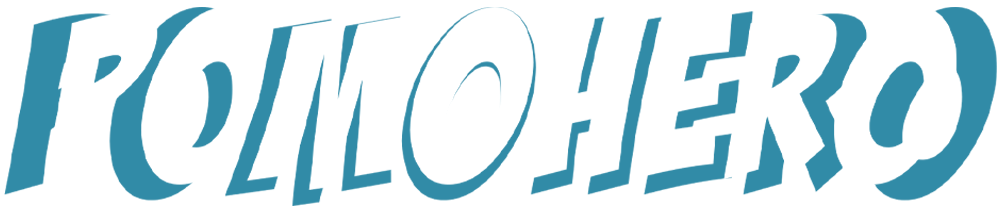
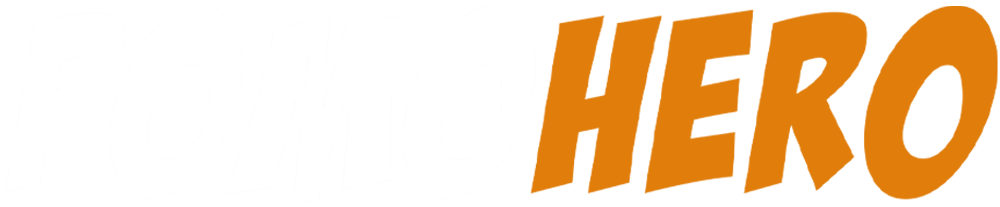
modified color scheme for app

diff --git a/source/v1/css/layout.css b/source/v1/css/layout.css
@@ -57,11 +57,17 @@ body {
  * Styling for information button
  */
 .info-btn {
+  width: 30px;
+  height: 30px;
   position: absolute;
   right: 15px;
   top: 90px;
-  border-radius: 15px;
+  border-radius: 50%;
   opacity: 80%;
+  font-family: 'Calibri', sans-serif;
+  font-weight: bold;
+  font-size: 1.1rem;
+  border: none;
 }
 
 /**
@@ -86,7 +92,7 @@ body {
 .sidenav {
   padding: 0 50px;
   height: 100vh;
-  /* display: none; */
+  display: none;
   width: auto;
   position: absolute;
   z-index: 2;
@@ -182,7 +188,7 @@ input[type=text] {
   border-radius: 3px;
   height: auto;
   width: auto;
-  max-width: 450px;
+  max-width: 380px;
   margin: 45px auto 0 auto;
   padding: 20px 100px 15px 100px;
 }
@@ -220,25 +226,27 @@ input[type=text] {
  * Small tomatos denoting if Pomodoro is completed
  */
 .pomo-count {
-  width: 50px;
+  margin: 5px 5px 20px 5px;
+  width: 25px;
 }
 
 /**
  * Styling Start and End buttons
  */
 .custom-btn {
-  border-radius: 3px;
+  border-radius: 10px;
   height: 40px;
   line-height: 40px;
   width: 150px;
   font-family: 'Alegreya', serif;
   font-size: 20px;
-  font-weight: bold;
+  font-weight: normal;
   text-decoration: none;
   display: inline-block;
   cursor: pointer;
   text-align: center;
   margin: 0 30px 15px 10px;
+  border: 2px solid;
 }
 
 /**
@@ -256,7 +264,7 @@ input[type=text] {
  * Container for displaying current and next task
  */
 .middle-container {
-  padding: 10px;
+  padding: 10px 10px 40px 10px;
   margin: auto;
   height: auto;
   font-family: 'Roboto', sans-serif;
@@ -288,28 +296,6 @@ input[type=text] {
   position: absolute;
 }
 
-/******************
- * Styling Footer *
- ******************/
-
-/**
- * Container for footer at end of page
- */
-.bottom-container {
-  padding: -200px 0 0 0;
-  height: 80px;
-}
-
-/**
- * Styling the copyright in footer
- */
-.copy-right {
-  margin: auto;
-  padding: 80px 20px 20px 20px;
-  font-weight: 900;
-  font-family: 'Roboto', sans-serif;
-}
-
 /************************
  * Styling Instructions *
  ************************/
@@ -318,20 +304,19 @@ input[type=text] {
  * Container for instructions
  */
 .instructions-section {
-  max-width: 1000px;
+  max-height: 100vh;
   margin: auto;
-  padding: 20px 100px 30px 100px;
   font-family: 'Roboto', sans-serif;
-  padding: 10px 0;
 }
 
 /**
  * Styling the header in instructions section
  */
 .instruct-head {
+  margin-top: 0;
+  padding: 15px;
   font-size: 2.5rem;
   font-family: 'Alegreya', serif;
-  margin: 30px 0 30px 0;
 }
 
 /**
@@ -375,9 +360,31 @@ input[type=text] {
 }
 
 /**
+ * Styling the up arrow container
+ */
+.instruct-bottom {
+  padding: 5px;
+}
+
+/**
  * Styling up arrow button after instructions
  */
 .arrow-up-icon {
   margin: auto;
   width: 50px;
+}
+
+/******************
+ * Styling Footer *
+ ******************/
+
+/**
+ * Styling the copyright in footer
+ */
+.copy-right {
+  position: relative;
+  padding: 30px;
+  margin: auto;
+  font-weight: 900;
+  font-family: 'Roboto', sans-serif;
 }

diff --git a/source/v1/css/colors.css b/source/v1/css/colors.css
@@ -5,24 +5,29 @@ hr {
   color: #79a3b1;
 }
 
+.header-container {
+  background-color: #1f288f;
+}
+
 /************************
  * Color for Navigation *
  ************************/
 
 .info-btn {
-  color: #405f69;
+  color: #fff;
+  background-color: #1f288f;
 }
 
 .info-btn:hover {
-  color: #213336;
+  background-color: rgb(240, 197, 104);
 }
 
 .task-btn {
-  color: #405f69;
+  color: #1f288f;
 }
 
 .task-btn:hover {
-  color: #213336;
+  color: rgb(240, 197, 104);
 }
 
 /*****************************
@@ -34,42 +39,49 @@ hr {
 }
 
 .btn {
-  color: #7e8080;
+  color: #1f288f;
 }
 
 .btn:hover {
-  color: #000;
+  color: rgb(240, 197, 104);
 }
 
 /****************************
  * Color for Pomodoro Timer *
  ****************************/
 .timer-section {
-  background-color: #d0e8f2;
+  background-color: #fff;
 }
 
 .timer-box {
-  background-color: #79a3b1;
+  background-color: #1f288f;
 }
 
 .timer {
-  background-color: #79a3b1;
+  background-color: #1f288f;
 }
 
 #time-display {
-  color: #165d81;
+  color: #fff;
 }
 
 #work-message {
-  color: #000;
+  color: #fff;
+}
+
+#pomos-completed {
+  color: #fff;
 }
 
 .custom-btn {
-  background: #d0e8f2;
+  border-color: #fff;
+  color: #fff;
+  background: #1f288f;
 }
 
 .custom-btn:hover {
-  background-color: #2f70a8;
+  background-color: #fff;
+  color: #1f288f;
 }
 
 /****************************
@@ -77,19 +89,19 @@ hr {
  ****************************/
 
 .middle-container {
-  background-color: #d0e8f2;
+  background-color: #fff;
 }
 
 #current {
   background-color: #fff;
-  color: black;
-  border-color: green;
+  color: #000;
+  border-color: #1f288f;
 }
 
 #next {
-  background-color: #e7e2e2;
+  background-color: rgb(234, 234, 245);
   color: rgb(48, 46, 46);
-  border-color: #615e5e;
+  border-color: #1f288f;
 }
 
 /**************************
@@ -97,30 +109,31 @@ hr {
  **************************/
 
 .instruct-head {
-  color: #5b5b5b;
+  color: #fff;
+  background-color: #e07d0b;
 }
 
-.instructions-section {
-  background-color: #f4f9f9;
+#instructions-para {
+  background-color: #fff;
 }
 
-#instructions-para,
 .arrow-up-icon {
-  color: #5b5b5b;
+  color: #fff;
+}
+
+.instruct-bottom {
+  background-color: rgb(224, 125, 11);
 }
 
 .arrow-up-icon:hover {
-  color: #184d47;
+  color: #000;
 }
 
 /********************
  * Color for Footer *
  ********************/
 
-.bottom-container {
-  background-color: #d0e8f2;
-}
-
 .copy-right {
-  background-color: #d0e8f2;
+  background-color: #1f288f;
+  color: #fff;
 }

diff --git a/source/v1/index.html b/source/v1/index.html
@@ -36,7 +36,7 @@
       <div id="task-title">
         <h1>TaskList</h1>
         <div id="add-task">
-          <input type="text" id="1" name="task" placeholder="Enter task description...">
+          <input type="text" id="add" name="task" placeholder="Enter task description...">
           <i id="add-btn" class="fas fa-plus-square fa-2x btn"></i>
         </div>
         <hr>
@@ -97,6 +97,7 @@
     <div class="top-container">
       <div class="main-box">
         <i id="task-btn" class="fas fa-tasks fa-2x task-btn"></i>
+        <!-- <i id="info-btn" class="fas fa-info-circle fa-2x info-btn"></i> -->
         <timer-element></timer-element>
       </div>
     </div>
@@ -116,7 +117,7 @@
   </section>
   
   <!-- Contains the instructions -->
-  <section class="instructions-section full-height flex flex-column">
+  <section class="instructions-section flex flex-column">
     <h2 class="instruct-head">Instructions</h2>
     <p id="instructions-para">
       <h3>How To Use</h3>
@@ -141,13 +142,13 @@
         and reducing useless work sessions.
       </p>
     </p>
-    <i id="up-arrow" class="fas fa-arrow-alt-circle-up fa-4x arrow-up-icon"></i>
+    <div class="instruct-bottom">
+      <i id="up-arrow" class="fas fa-arrow-alt-circle-up fa-4x arrow-up-icon"></i>
+    </div>
   </section>
 
   <!-- Contains the footer : Copyright for app name-->
-  <div class="bottom-container">
-    <p class="copy-right">© PomoHero 2021</p>
-  </div>
+  <p class="copy-right">© PomoHero 2021</p>
 
   <audio id="notifs" src="assets/audio/notif_tone.mp3"></audio>
 
